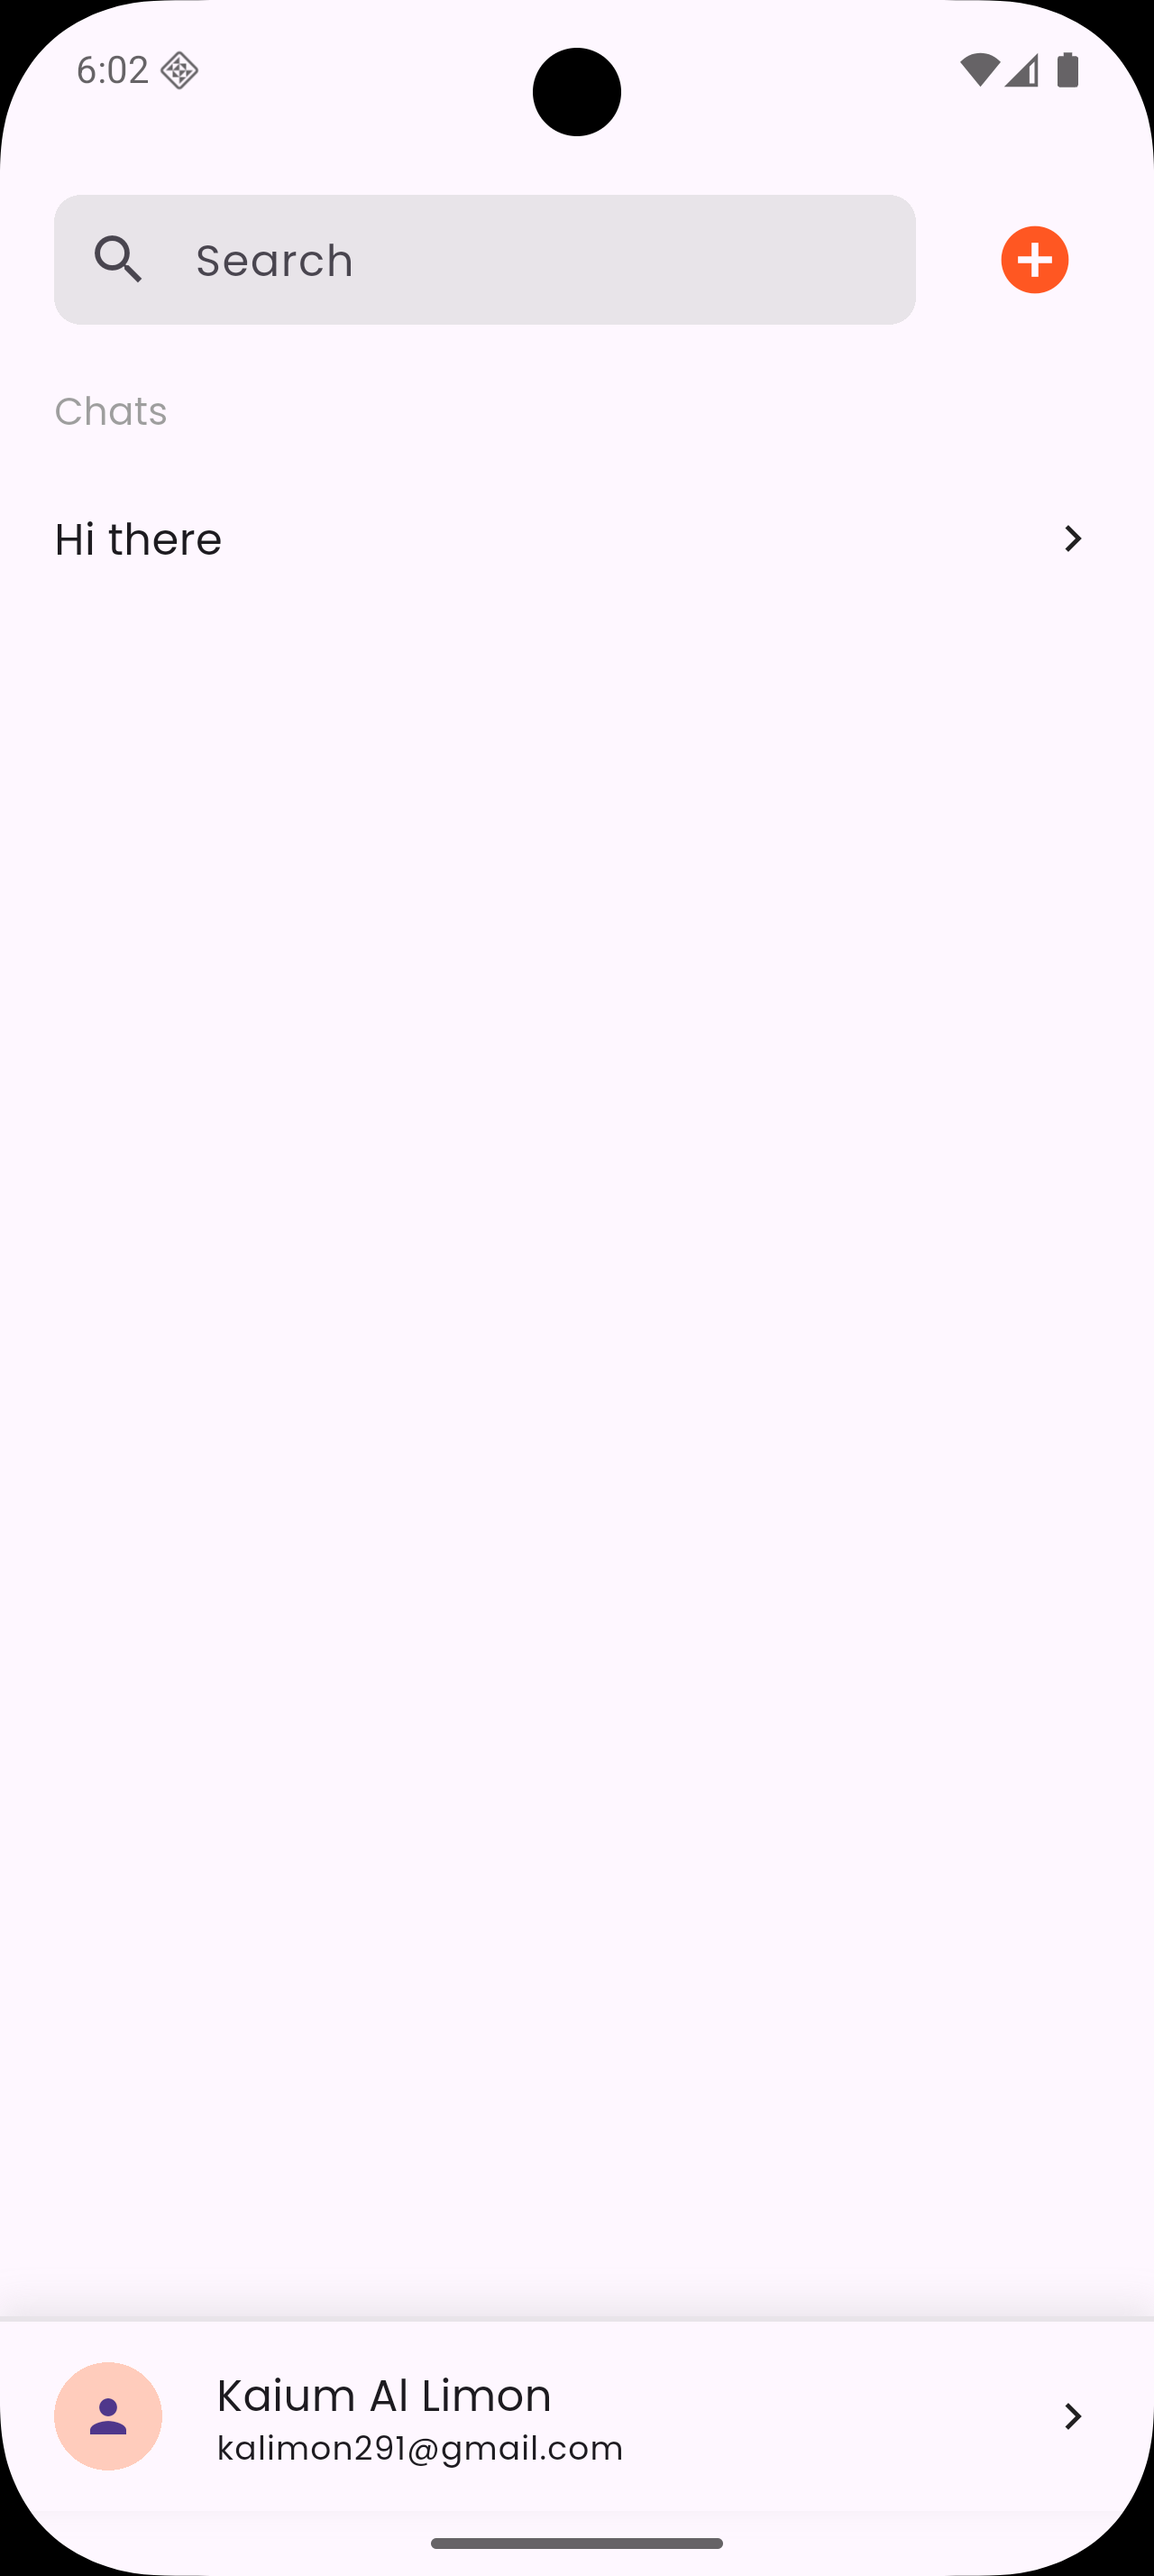
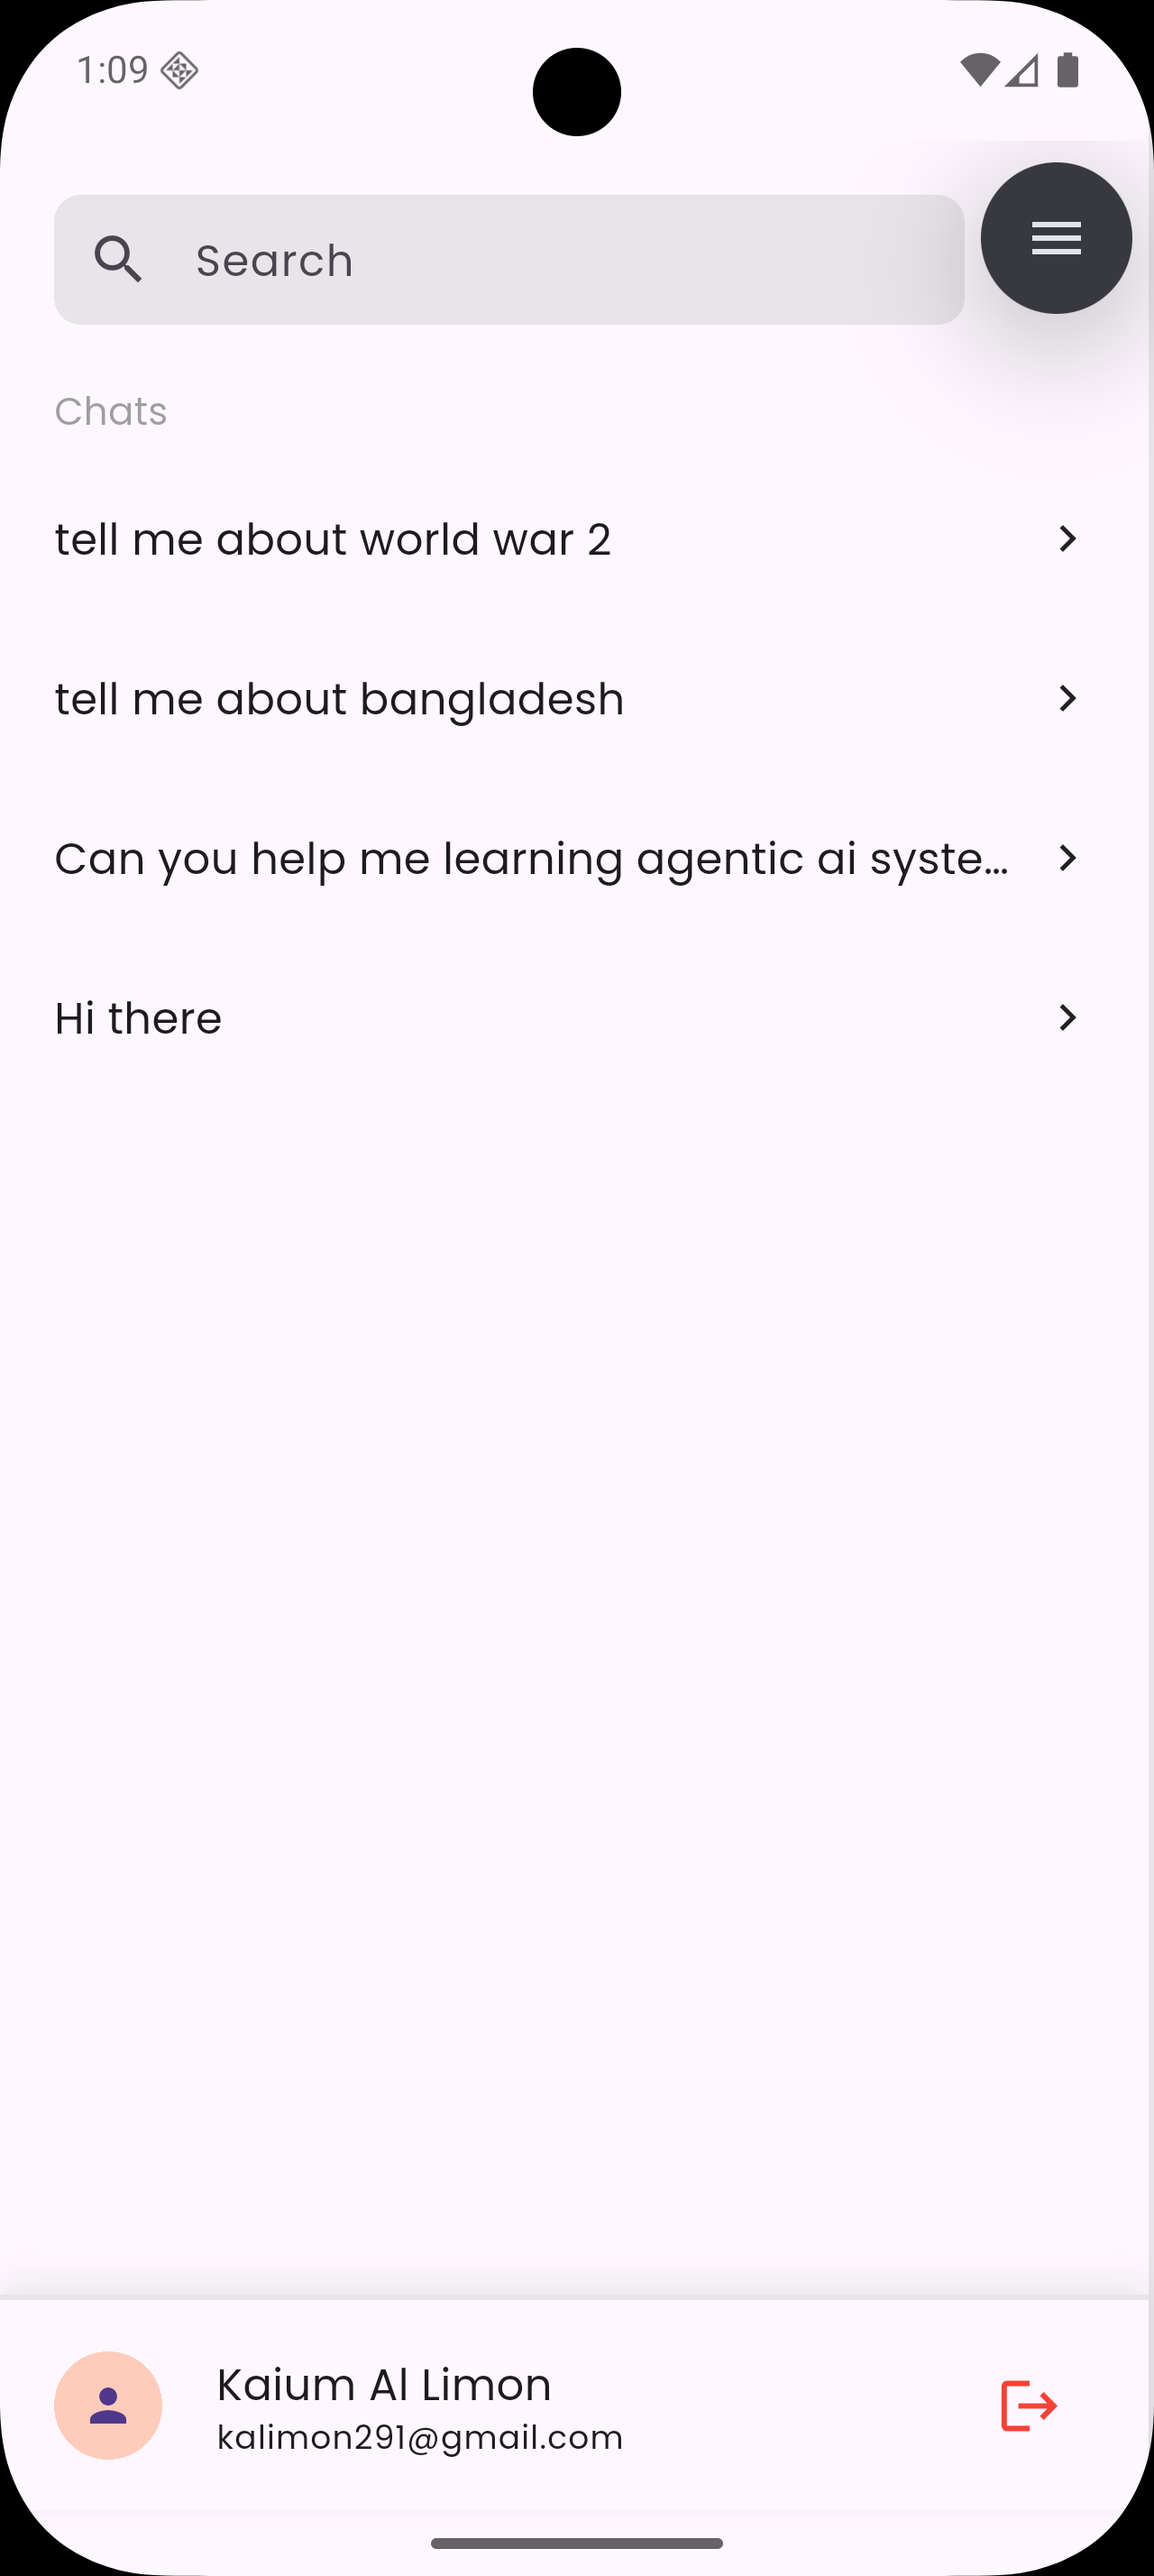
Update README.md to enhance project overview, features, and setup instructions. Add new screenshots for chat interface and authentication flow. Include detailed tech stack and project structure. Introduce sections for architecture and state management. Add new demo image for messages screen.

diff --git a/README.md b/README.md
@@ -1,75 +1,133 @@
-# NEX - AI Chat Assistant
+# Nex - AI Chatbot Application
 
-A modern Flutter-based AI chatbot application that provides a ChatGPT-like experience with a clean and intuitive user interface.
+## Overview
+Nex is a modern AI chatbot application built with Flutter, offering a ChatGPT-like experience. It provides an intuitive interface for AI-powered conversations, backed by Supabase for user management and Hive for local storage. The application implements a clean architecture pattern and uses Provider for state management.
 
-## 📱 Features
+## Screenshots
 
-- Clean and modern UI/UX design
-- Real-time AI-powered conversations
-- User authentication system
-- Message history
-- Multi-theme support
-- Responsive design for various screen sizes
-
-## 📸 Screenshots
-
+### Authentication Flow
 <div align="center">
   <img src="demo_images/splash.png" alt="Splash Screen" width="250"/>
   <img src="demo_images/login.png" alt="Login Screen" width="250"/>
   <img src="demo_images/register.png" alt="Register Screen" width="250"/>
-  <img src="demo_images/conversations.png" alt="Conversations Screen" width="250"/>
 </div>
 
-## 🚀 Getting Started
+### Chat Interface
+<div align="center">
+  <img src="demo_images/conversations.png" alt="Chat History Screen" width="250"/>
+  <img src="demo_images/messages.png" alt="AI Chat Messages Screen" width="250"/>
+</div>
 
-### Prerequisites
+The application features a smooth user experience from authentication to AI interactions:
+- **Splash Screen**: Modern app initialization screen
+- **Authentication**: Clean login and registration interfaces
+- **Chat History**: List of all your AI conversation sessions
+- **Messages**: Interactive AI chat interface with message history
 
-- Flutter SDK (latest version)
-- Dart SDK (latest version)
-- Android Studio / VS Code
-- Android SDK / Xcode (for iOS development)
+## Features
+- AI-powered conversational interface
+- Context-aware chat responses
+- Chat history persistence
+- User authentication (Login/Register)
+- Modern and clean UI with Google Fonts
+- Environment variable support
+- Dark/Light theme support [Coming soon]
 
-### Installation
+## Tech Stack
+- **Framework**: Flutter
+- **State Management**: Provider
+- **Backend**: Supabase
+- **Local Storage**: Hive
+- **Authentication**: Supabase Auth
+- **UI Components**: Material Design
+- **Fonts**: Google Fonts
+- **Environment Variables**: flutter_dotenv
 
-1. Clone the repository:
-```bash
-git clone https://github.com/kaiumallimon/nex.git
+## Project Structure
+```
+lib/
+├── app/
+│   ├── data/        # Data layer (repositories, data sources)
+│   ├── models/      # Data models and chat message structures
+│   ├── providers/   # State management
+│   ├── services/    # AI integration and business logic
+│   └── views/       # UI components and pages
+└── main.dart        # Application entry point
 ```
 
-2. Navigate to the project directory:
+## Dependencies
+- `flutter_dotenv`: ^5.2.1
+- `provider`: ^6.1.1
+- `supabase_flutter`: ^2.3.4
+- `hive`: ^2.2.3
+- `hive_flutter`: ^1.1.0
+- `google_fonts`: ^6.2.1
+- `flutter_markdown`: ^0.7.7+1
+- `path_provider`: ^2.1.5
+- `http`: ^1.2.0
+- `groq`: ^1.0.0
+
+## Getting Started
+
+### Prerequisites
+- Flutter SDK (^3.7.2)
+- Dart SDK
+- A Supabase account and project
+- AI API credentials (e.g., OpenAI/Groq API key)
+
+### Setup
+1. Clone the repository
 ```bash
+git clone https://github.com/yourusername/nex.git
 cd nex
 ```
 
-3. Install dependencies:
+2. Create a `.env` file in the root directory with your credentials:
+```
+SUPABASE_URL=your_supabase_url
+SUPABASE_KEY=your_supabase_anon_key
+AI_API_KEY=your_ai_api_key
+```
+
+3. Install dependencies
 ```bash
 flutter pub get
 ```
 
-4. Run the app:
+4. Run the application
 ```bash
 flutter run
 ```
 
+## Architecture
+The application follows a clean architecture pattern with the following layers:
+- **Views**: UI components and chat interface
+- **Providers**: State management using Provider package
+- **Services**: AI integration and chat processing
+- **Models**: Chat message models and AI response structures
+- **Data**: Message history and user data management
 
-## 🤝 Contributing
+## State Management
+The application uses Provider for state management with the following main providers:
+- `SplashProvider`: Handles application initialization
+- `LoginProvider`: Manages authentication state
+- `RegisterProvider`: Handles user registration
+- `ConversationProvider`: Manages AI chat conversations
+- `ChatProvider`: Handles message processing and AI responses
+- `WrapperProvider`: Manages overall application state
 
-1. Fork the repository
-2. Create your feature branch (`git checkout -b feature/AmazingFeature`)
-3. Commit your changes (`git commit -m 'Add some AmazingFeature'`)
-4. Push to the branch (`git push origin feature/AmazingFeature`)
-5. Open a Pull Request
+## Features in Detail
+- **AI Chat Interface**: Clean and intuitive chat interface similar to ChatGPT
+- **Message History**: Persistent storage of chat history using Hive
+- **User Authentication**: Secure login and registration system
+- **Real-time AI Responses**: Integration with AI APIs for natural language processing
+- **Markdown Support**: Proper rendering of code blocks and formatted text in AI responses
 
-## 📄 License
+## Contributing
+Contributions are welcome! Please feel free to submit a Pull Request.
 
-This project is licensed under the MIT License - see the [LICENSE](LICENSE) file for details.
+## License
+This project is licensed under the MIT License - see the LICENSE file for details.
 
-## 👥 Authors
-
-- Kaium Al Limon - Initial work
-
-## 🙏 Acknowledgments
-
-- Flutter team for the amazing framework
-- Provider package for state management
-- Google Fonts for the beautiful typography
+## Contact
+For any queries or suggestions, please open an issue in the repository.
